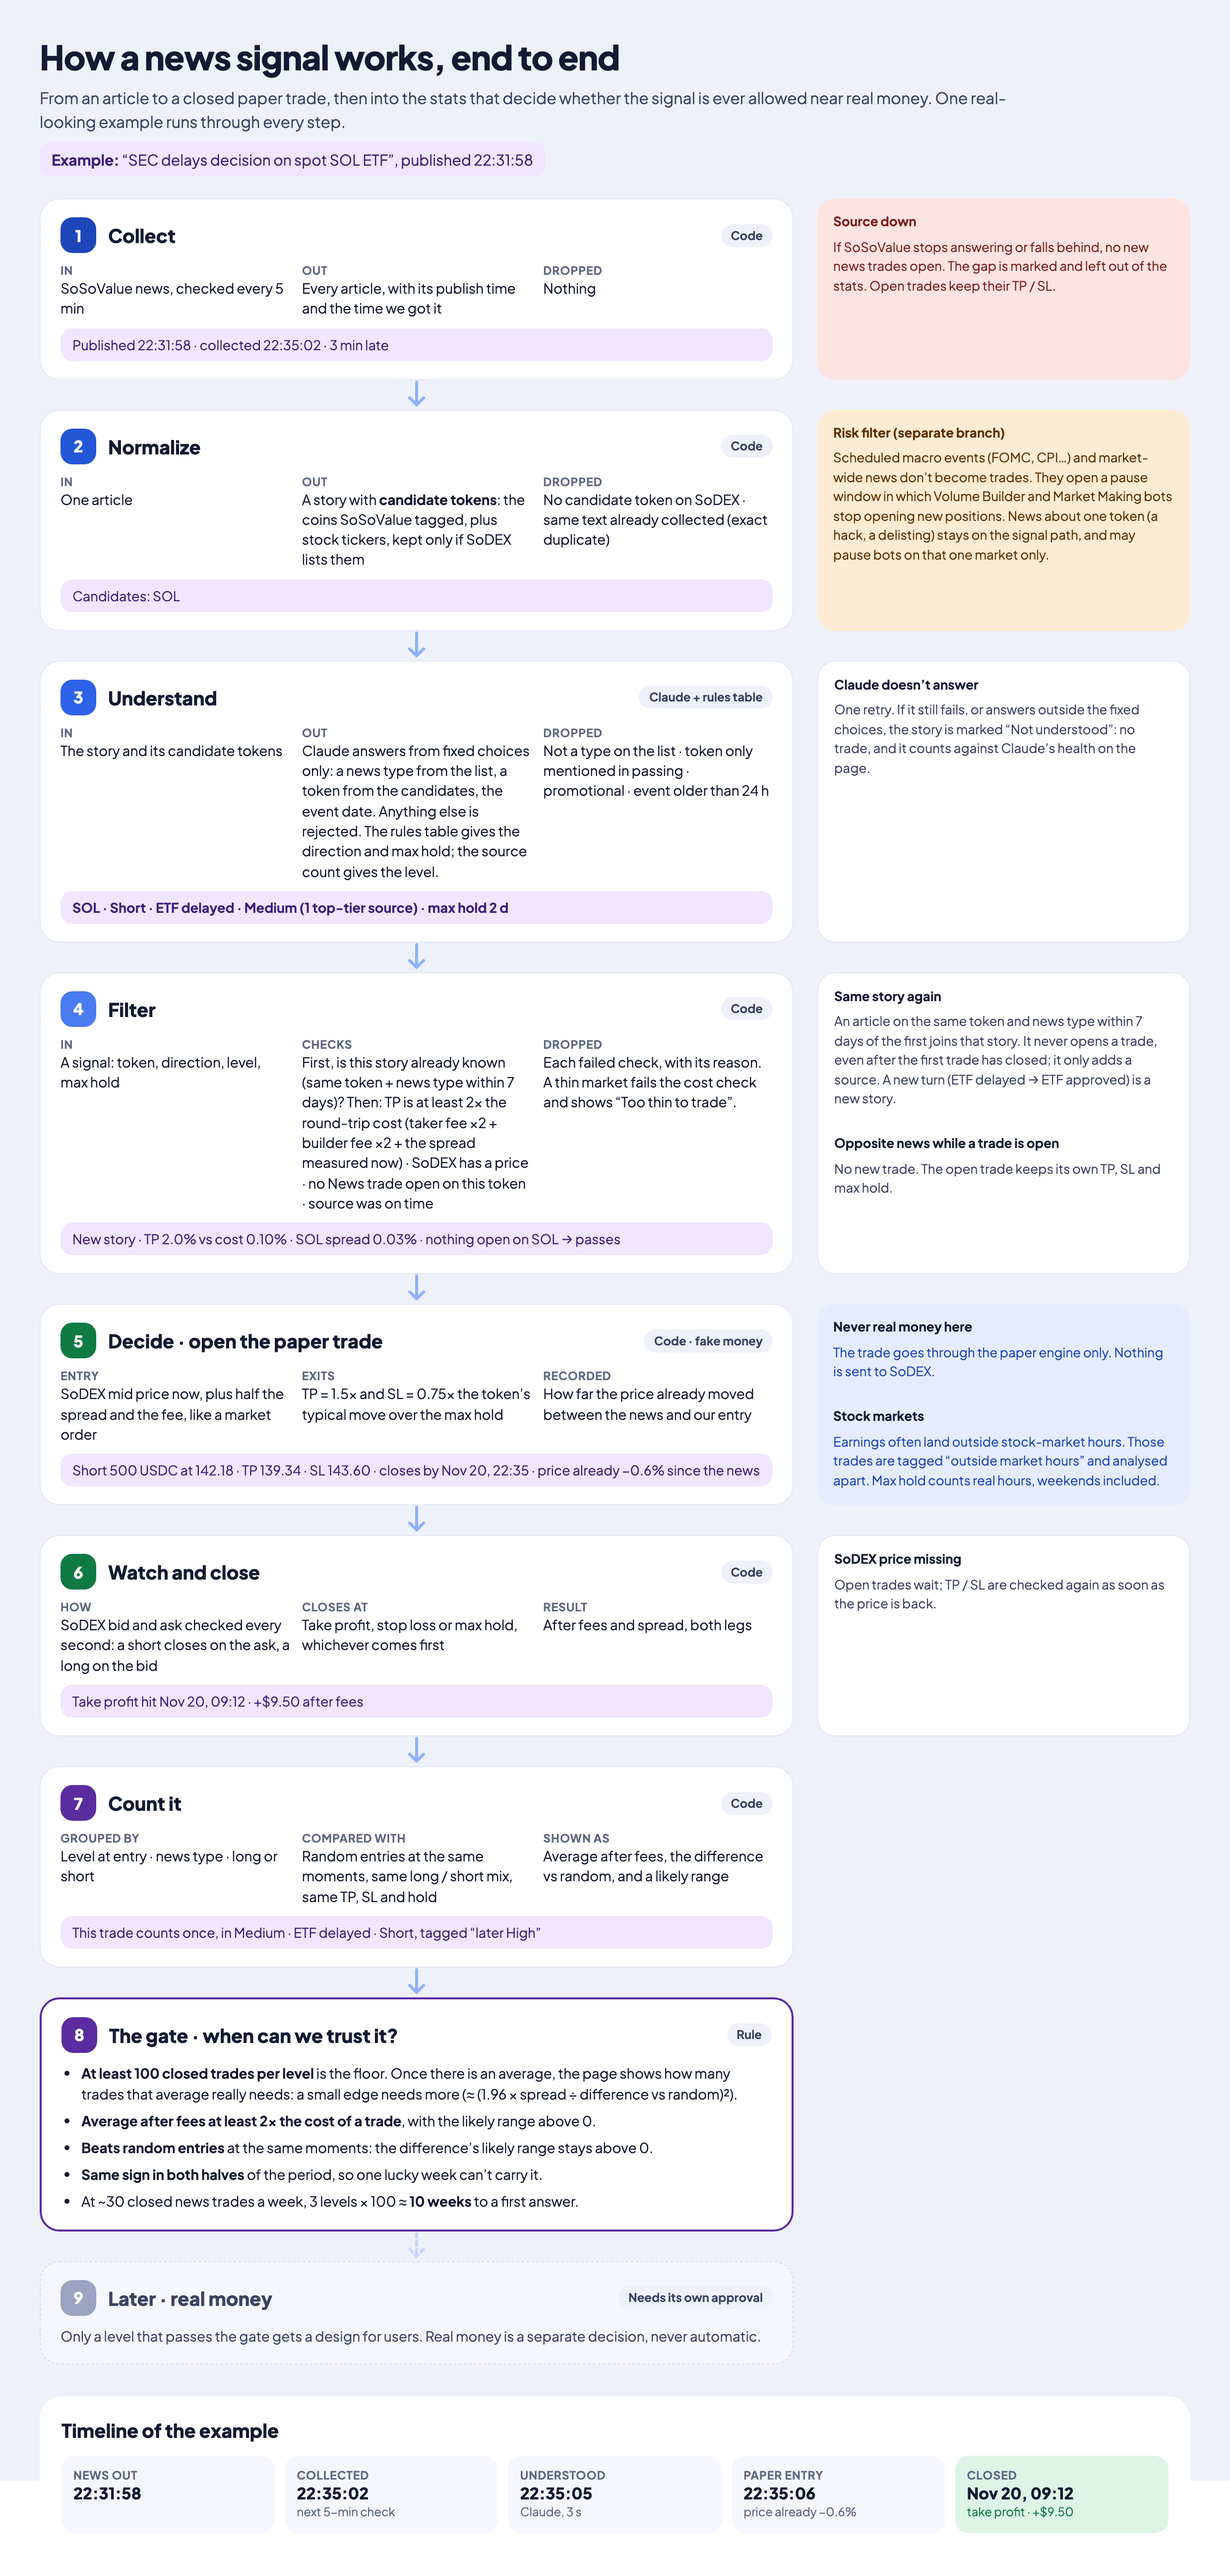
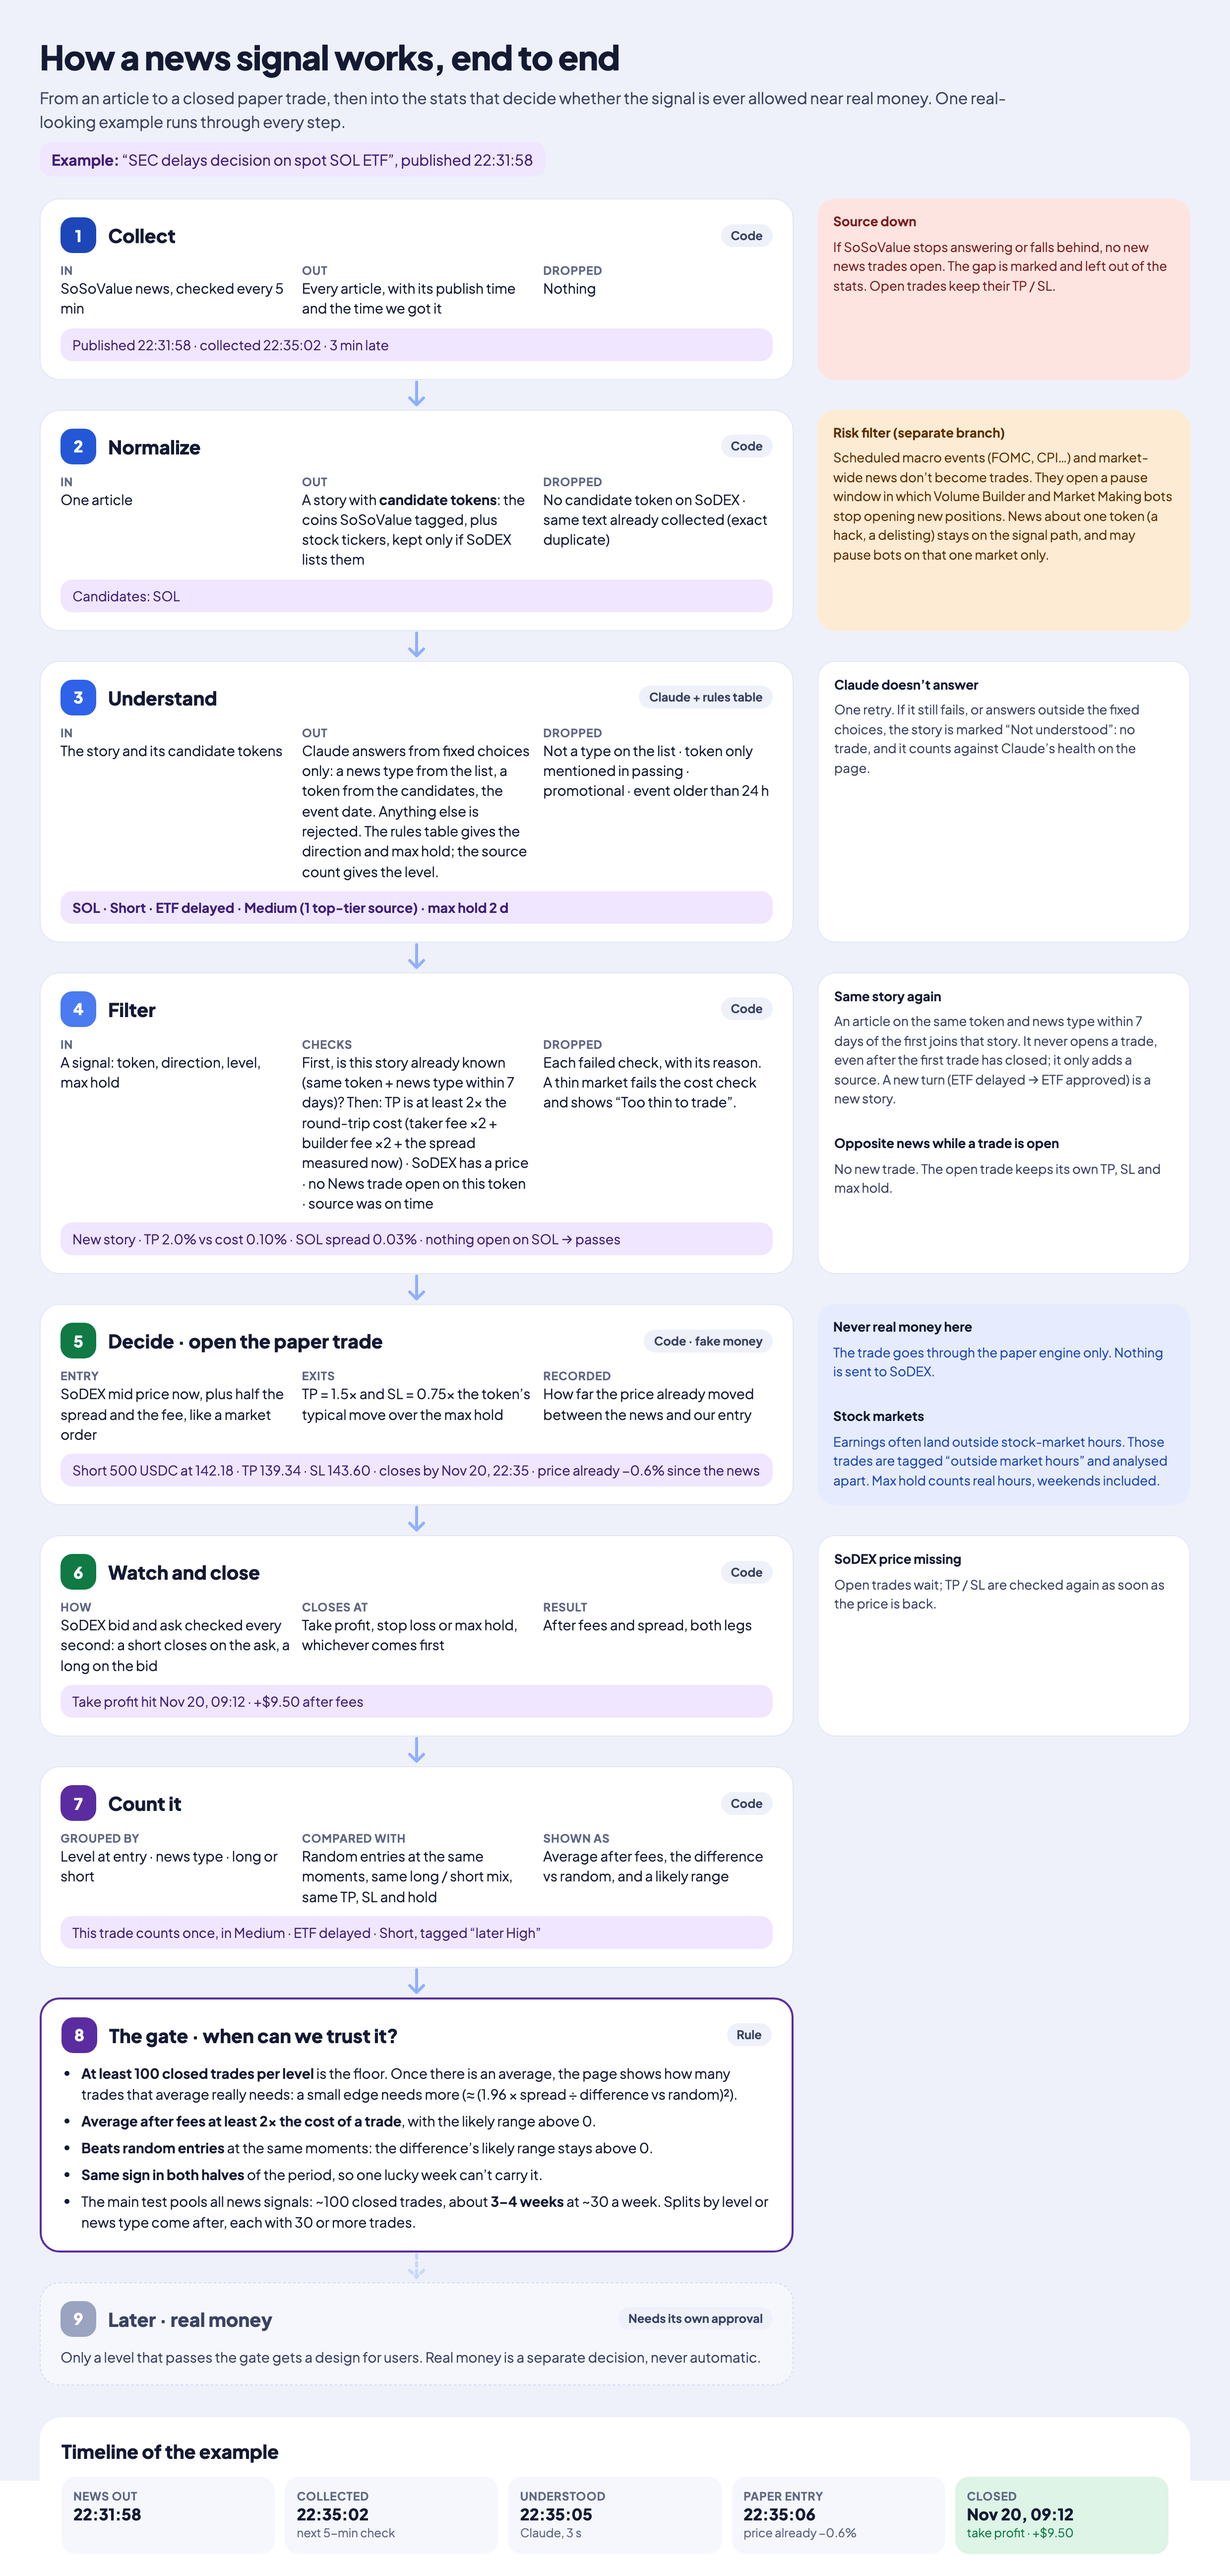
docs(mockups): Signal research pooled news test, ~3–4 weeks to a first answer (#269)

diff --git a/docs/mockups/signal-research/signal-research.html b/docs/mockups/signal-research/signal-research.html
@@ -160,7 +160,7 @@ label{display:flex;flex-direction:column;gap:4px;font-size:12px;font-weight:700;
     </table>
     </div>
     <div style="display:flex;gap:12px;flex-wrap:wrap">
-      <div style="flex:1 1 360px;background:#f5f7fd;border-radius:16px;padding:14px;font-size:14px;line-height:1.5;color:#3b4262"><b style="color:#141a33">When do we get a first answer?</b> Each level needs at least 100 closed trades: about 300 in all. At the current ~30 closed a week, the first verdict comes in about 10 weeks (late January). Once a level has an average, the page shows how many trades that average really needs; a small edge needs more than 100.</div>
+      <div style="flex:1 1 360px;background:#f5f7fd;border-radius:16px;padding:14px;font-size:14px;line-height:1.5;color:#3b4262"><b style="color:#141a33">When do we get a first answer?</b> The main test pools all news signals: about 100 closed trades, so 3–4 weeks at the current ~30 a week. Results by level or news type are a second look, once each has 30 or more trades. Once there is an average, the page shows how many trades it really needs; a small edge needs more than 100.</div>
       <div style="flex:1 1 360px;background:#f5f7fd;border-radius:16px;padding:14px;font-size:14px;line-height:1.5;color:#3b4262"><b style="color:#141a33">A level passes only if</b> it also beats random entries at the same moments, with the same long / short mix, TP, SL and max hold. A rising market makes long news look good; the random comparison takes that out.</div>
     </div>
   </section>
@@ -175,7 +175,7 @@ label{display:flex;flex-direction:column;gap:4px;font-size:12px;font-weight:700;
     <table>
       <thead><tr><th>Signal type</th><th>How it’s tested</th><th>Closed trades</th><th>Average after fees</th><th>Random entry · difference</th><th>Likely range</th><th>Status</th><th>What it still needs</th></tr></thead>
       <tbody>
-        <tr><td><div style="font-weight:700">News</div><div class="sub">Rules v2</div></td><td><span class="pill" style="background:#f0e6ff;color:#5a2ca0">Live paper</span></td><td>30<div class="sub">41 opened</div></td><td style="color:#5f6684">Not enough trades</td><td style="color:#5f6684">—</td><td style="color:#5f6684">—</td><td><span class="pill" style="background:#fdebd3;color:#7a3e00">Collecting</span></td><td style="white-space:normal;min-width:220px">About 270 more closed across 3 levels · first verdict in ~10 weeks</td></tr>
+        <tr><td><div style="font-weight:700">News</div><div class="sub">Rules v2</div></td><td><span class="pill" style="background:#f0e6ff;color:#5a2ca0">Live paper</span></td><td>30<div class="sub">41 opened</div></td><td style="color:#5f6684">Not enough trades</td><td style="color:#5f6684">—</td><td style="color:#5f6684">—</td><td><span class="pill" style="background:#fdebd3;color:#7a3e00">Collecting</span></td><td style="white-space:normal;min-width:220px">About 70 more closed (all news pooled) · first verdict in ~3 weeks</td></tr>
         <tr><td><div style="font-weight:700">Whales</div><div class="sub">Rules v1</div></td><td><span class="pill" style="background:#eef1fa;color:#3b4262">Replay</span></td><td>312</td><td style="color:#0f7a43;font-weight:700">+0.21%</td><td>+0.02% · <b>+0.19%</b> better</td><td>−0.05% to +0.47%</td><td><span class="pill" style="background:#fde4e1;color:#a72826">Failing</span></td><td style="white-space:normal;min-width:220px">Range dips below 0. At this difference vs random it needs about 480 trades, not 100.</td></tr>
         <tr><td><div style="font-weight:700">Funding</div><div class="sub">Rules v1</div></td><td><span class="pill" style="background:#eef1fa;color:#3b4262">Replay</span></td><td>64</td><td style="color:#5f6684">Not enough trades</td><td style="color:#5f6684">—</td><td style="color:#5f6684">—</td><td><span class="pill" style="background:#fdebd3;color:#7a3e00">Collecting</span></td><td style="white-space:normal;min-width:220px">36 more trades. SoDEX funding covers 41 days.</td></tr>
         <tr><td><div style="font-weight:700">Price patterns</div><div class="sub">Rules v1</div></td><td><span class="pill" style="background:#eef1fa;color:#3b4262">Replay</span></td><td>418</td><td style="color:#c2312f;font-weight:700">−0.09%</td><td>−0.08% · <b>−0.01%</b></td><td>−0.18% to 0.00%</td><td><span class="pill" style="background:#fde4e1;color:#a72826">Failing</span></td><td style="white-space:normal;min-width:220px">Loses after fees. Not worth more work in this form.</td></tr>

diff --git a/docs/mockups/signal-research/flow.html b/docs/mockups/signal-research/flow.html
@@ -147,7 +147,7 @@ body{margin:0}
         <li><b>At least 100 closed trades per level</b> is the floor. Once there is an average, the page shows how many trades that average really needs: a small edge needs more (≈ (1.96 × spread ÷ difference vs random)²).</li>
         <li><b>Average after fees at least 2× the cost of a trade</b>, with the likely range above 0.</li><li><b>Beats random entries</b> at the same moments: the difference’s likely range stays above 0.</li>
         <li><b>Same sign in both halves</b> of the period, so one lucky week can’t carry it.</li>
-        <li>At ~30 closed news trades a week, 3 levels × 100 ≈ <b>10 weeks</b> to a first answer.</li>
+        <li>The main test pools all news signals: ~100 closed trades, about <b>3–4 weeks</b> at ~30 a week. Splits by level or news type come after, each with 30 or more trades.</li>
       </ul>
     </div>
     <div class="side" style="background:transparent"></div>
